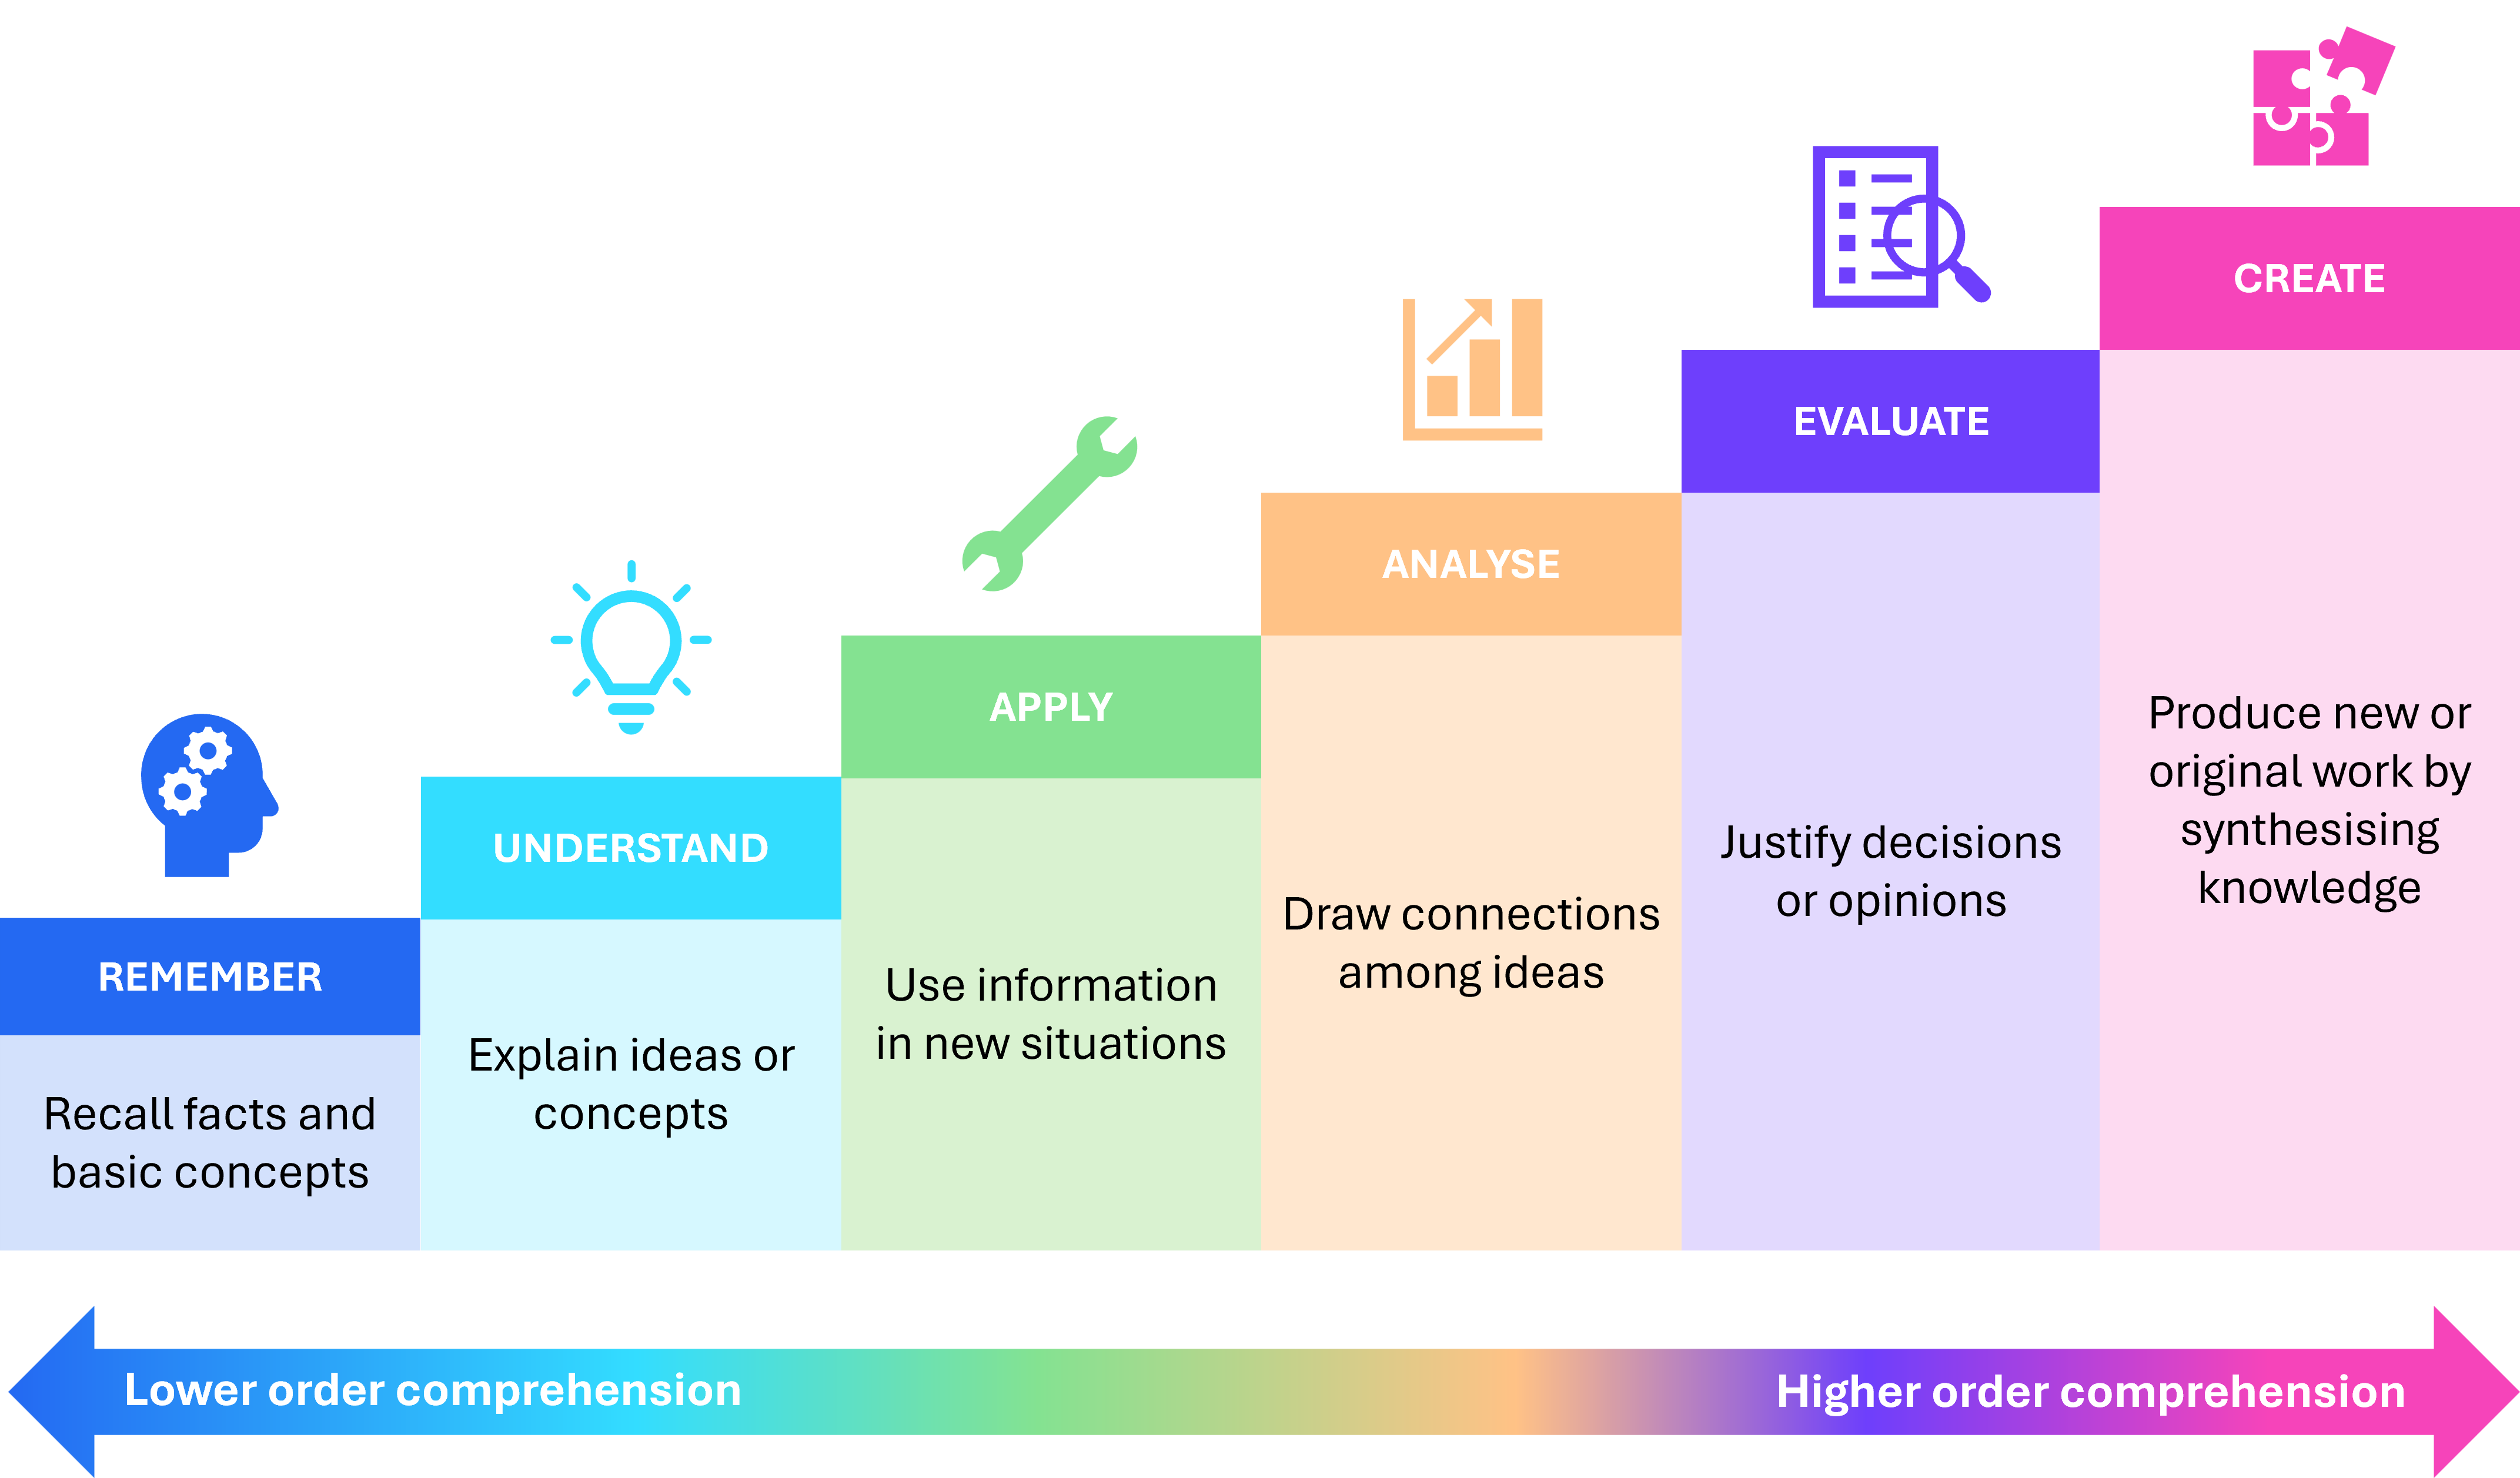
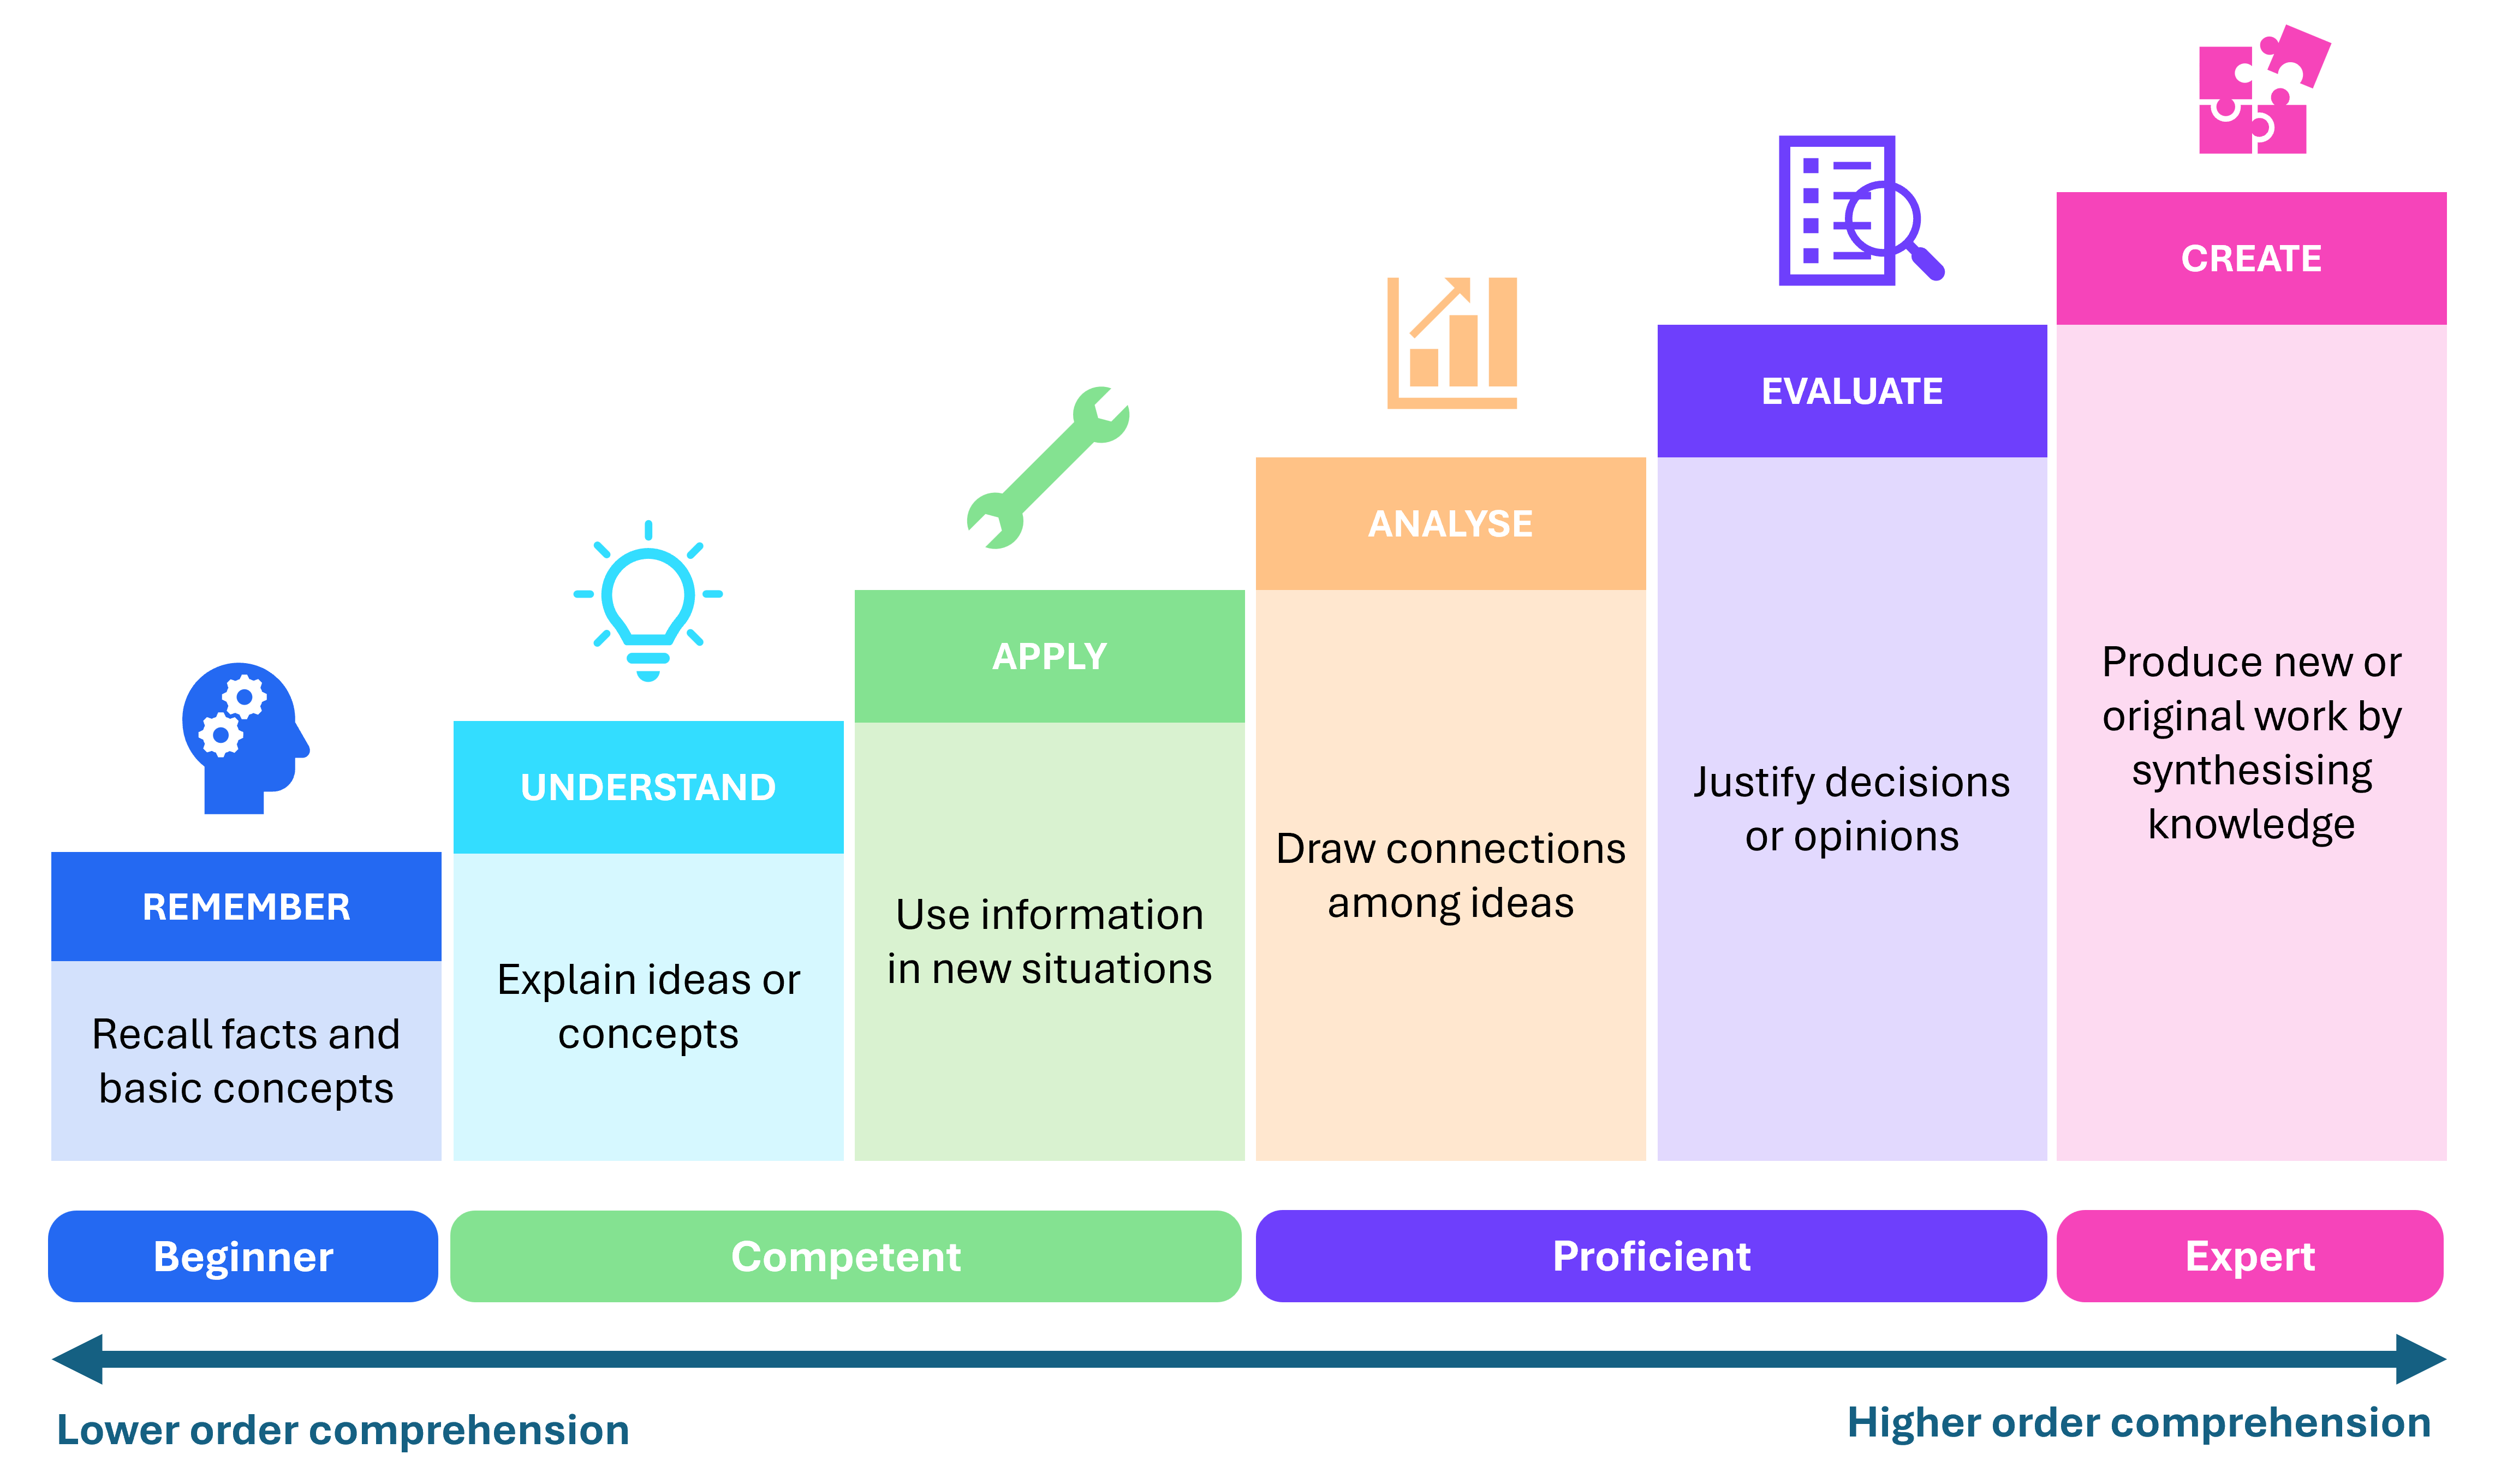
Update text and figure for blooms taxonomy

Changed region(s): [[0.0, 0.0, 1.0, 0.9928]]

diff --git a/docs/source/competency_guide/4_intro_to_competency_frameworks.rst b/docs/source/competency_guide/4_intro_to_competency_frameworks.rst
@@ -210,11 +210,13 @@ For bioinformatics teams operating under ISO 15189 or ISO 17025, competency fram
 
 .. dropdown:: Bloom's taxonomy
 
-    Bloom's taxonomy is a hierarchical framework for categorising educational objectives and learning outcomes. It classifies cognitive skills into six levels, from lower-order thinking skills (remembering, understanding) to higher-order thinking skills (applying, analysing, evaluating, creating). Bloom's taxonomy is widely used in curriculum design, assessment, and instructional planning to promote critical thinking and deeper learning.
-
     .. figure:: ../_static/blooms_taxonomy.png
         :align: center
         :width: 650px
+
+    Bloom's taxonomy is a hierarchical framework for categorising educational objectives and learning outcomes. It classifies cognitive skills into six levels, from lower-order thinking skills (remembering, understanding) to higher-order thinking skills (applying, analysing, evaluating, creating). Bloom's taxonomy is widely used in curriculum design, assessment, and instructional planning to promote critical thinking and deeper learning.
+
+    When defining competency levels within our proposed bioinformatics competency framework, we have tried to incorporate Bloom's levels of cognitive complexity into how each competency level is defined. Remember maps to Beginner, reflecting basic recall of facts and concepts. Understand and Apply both map to Competent, reflecting the ability to explain ideas and use information in new situations with minimal supervision. Analyse and Evaluate both map to Proficient, reflecting the ability to draw connections among ideas and justify decisions independently. Create maps to Expert, reflecting the ability to produce new or original work by synthesising knowledge.
 
 ------------------------------------------------------
 